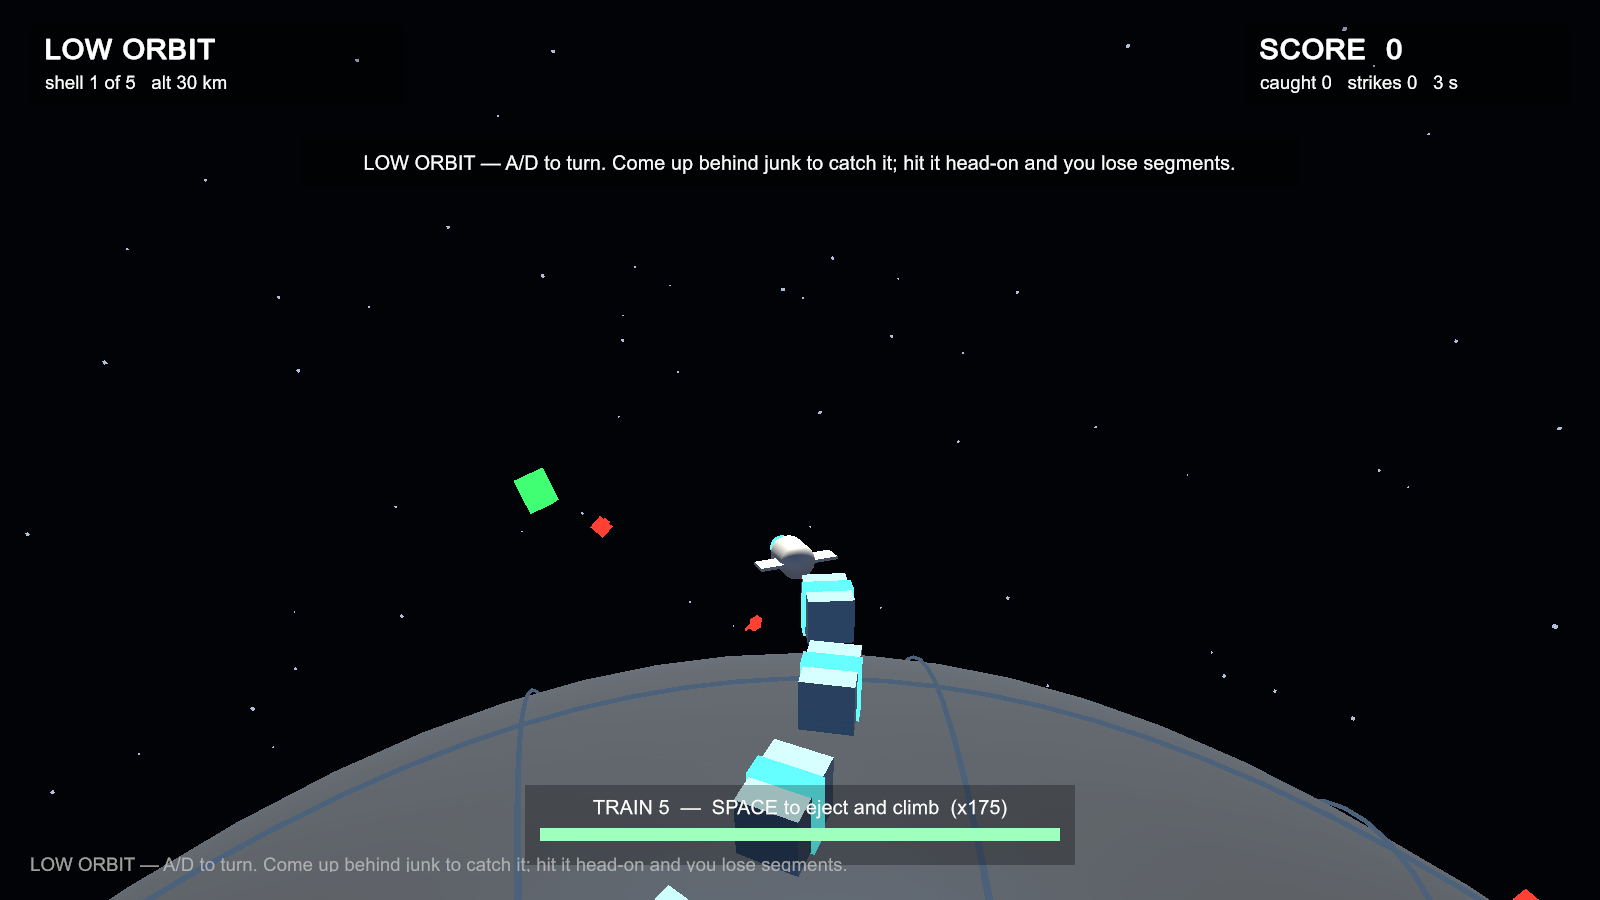
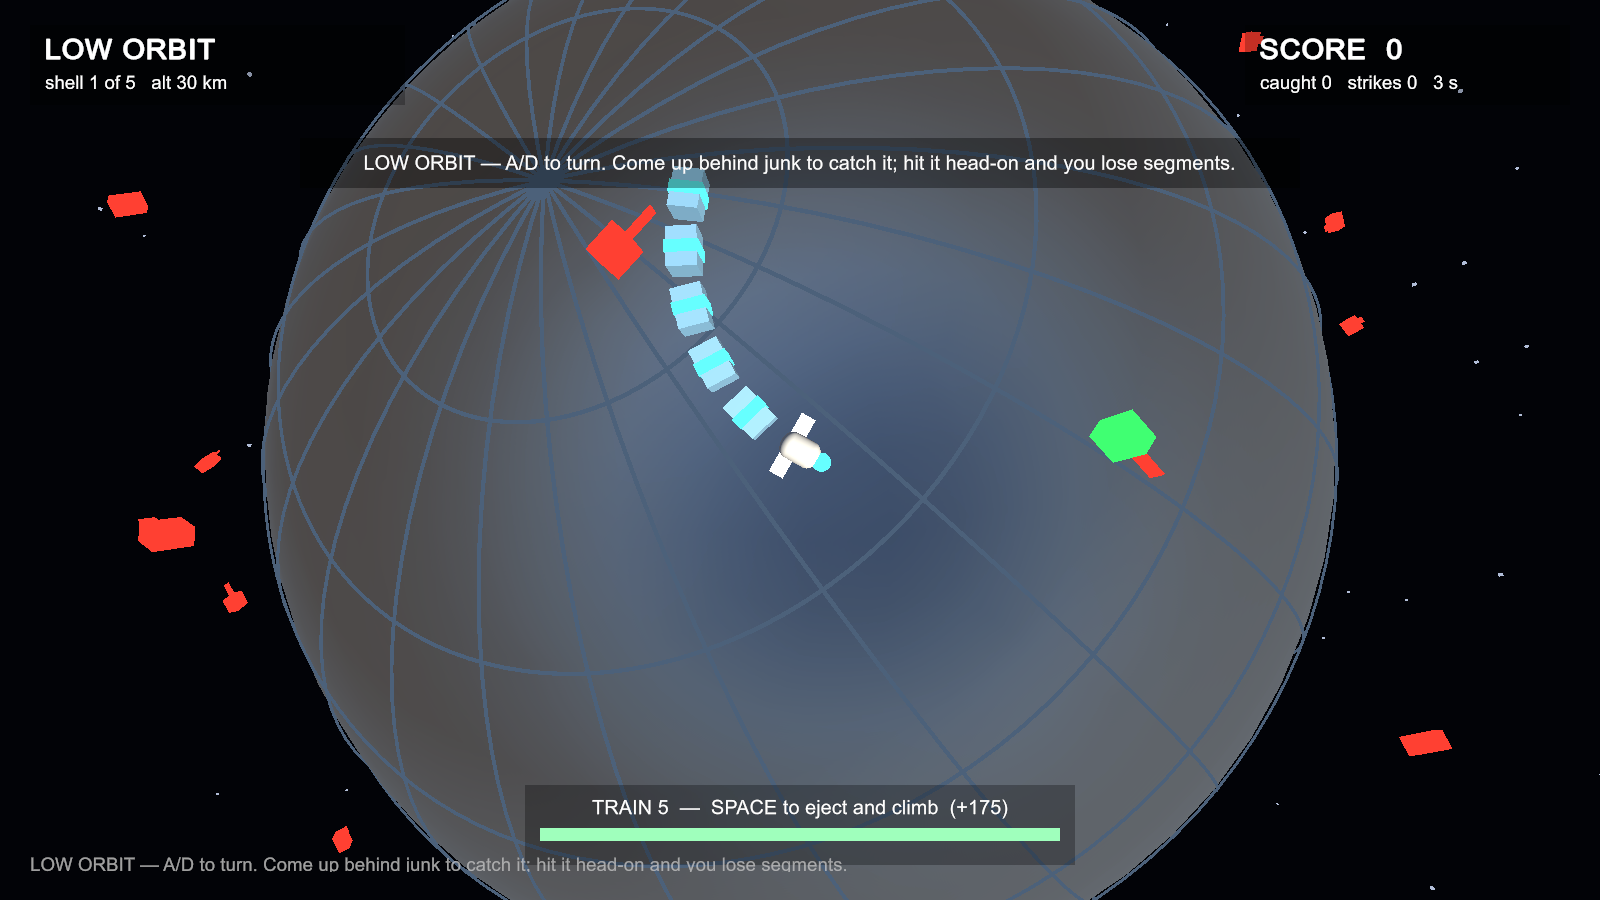
feat: Orbit Snake top-down camera — rigid, parallel-transported screen-up, no shake; denser grid, 1.5x bodies

diff --git a/My project/Assets/Scripts/Orbit/OrbitArt.cs b/My project/Assets/Scripts/Orbit/OrbitArt.cs
@@ -7,7 +7,7 @@ public partial class OrbitSnake
 {
     Material planetMat, hullMat, segMat, junkCatch, junkStrike, wreckMat, fallMat, glowMat;
     AudioSource audioSrc; AudioClip[] pings=new AudioClip[4]; AudioClip[] chimes=new AudioClip[5];
-    Camera shotCam; Vector3 camPos, camLook, camUp;
+    Vector3 camPos, camUp;
 
     Material Mat(Color c,bool unlit){ var m=new Material(Shader.Find(unlit?"Universal Render Pipeline/Unlit":"Universal Render Pipeline/Lit")); m.SetColor("_BaseColor",c); m.color=c; if(!unlit){m.SetFloat("_Metallic",.2f);m.SetFloat("_Smoothness",.35f);} owned.Add(m); return m; }
     GameObject Shape(string name,Transform parent,PrimitiveType type,Vector3 pos,Vector3 scale,Material mat)
@@ -20,10 +20,11 @@ public partial class OrbitSnake
         fallMat=Mat(new Color(1.4f,.6f,.15f),true); glowMat=Mat(new Color(.4f,1.1f,1.4f),true);
         var planet=new GameObject("Planet"); planet.transform.SetParent(world,false);
         planet.AddComponent<MeshFilter>().sharedMesh=Sphere(PlanetRadius,64,32); planet.AddComponent<MeshRenderer>().sharedMaterial=planetMat;
-        // Faint latitude/longitude grid on the planet so motion over it reads even on a flat material.
-        for(int i=0;i<12;i++){ var ring=new GameObject("Grid").AddComponent<LineRenderer>(); ring.transform.SetParent(world,false); ring.useWorldSpace=true; ring.loop=true; ring.positionCount=96; ring.widthMultiplier=.6f; ring.sharedMaterial=Mat(new Color(.3f,.38f,.48f),true);
-            var q=i<6?Quaternion.AngleAxis(i*30,Vector3.up)*Quaternion.AngleAxis(90,Vector3.right):Quaternion.identity; float lat=(i-6)*25-50; float r=i<6?PlanetRadius+.5f:Mathf.Cos(lat*Mathf.Deg2Rad)*(PlanetRadius+.5f); float y=i<6?0:Mathf.Sin(lat*Mathf.Deg2Rad)*(PlanetRadius+.5f);
-            for(int k=0;k<96;k++){ float a=k*Mathf.PI*2/96; ring.SetPosition(k,q*new Vector3(Mathf.Cos(a)*r,y,Mathf.Sin(a)*r)); } }
+        // Latitude/longitude grid every 15 degrees: seen from straight above, it is the only thing that shows speed.
+        var gridMat=Mat(new Color(.3f,.38f,.48f),true);
+        for(int i=0;i<23;i++){ var ring=new GameObject("Grid").AddComponent<LineRenderer>(); ring.transform.SetParent(world,false); ring.useWorldSpace=true; ring.loop=true; ring.positionCount=128; ring.widthMultiplier=.7f; ring.sharedMaterial=gridMat;
+            bool lon=i<12; var q=lon?Quaternion.AngleAxis(i*15,Vector3.up)*Quaternion.AngleAxis(90,Vector3.right):Quaternion.identity; float lat=(i-12)*15-75; float r=lon?PlanetRadius+.5f:Mathf.Cos(lat*Mathf.Deg2Rad)*(PlanetRadius+.5f); float y=lon?0:Mathf.Sin(lat*Mathf.Deg2Rad)*(PlanetRadius+.5f);
+            for(int k=0;k<128;k++){ float a=k*Mathf.PI*2/128; ring.SetPosition(k,q*new Vector3(Mathf.Cos(a)*r,y,Mathf.Sin(a)*r)); } }
         // Star field: 500 unlit specks on a far sphere, fixed seed so the screenshot runs compare.
         var stars=new GameObject("Stars"); stars.transform.SetParent(world,false); var starMat=Mat(new Color(.7f,.75f,.85f),true); var sr=new System.Random(3);
         for(int i=0;i<500;i++){ float z=(float)sr.NextDouble()*2-1,a=(float)sr.NextDouble()*Mathf.PI*2,r=Mathf.Sqrt(1-z*z); Shape("Star",stars.transform,PrimitiveType.Cube,new Vector3(r*Mathf.Cos(a),z,r*Mathf.Sin(a))*1500,Vector3.one*(2+(float)sr.NextDouble()*3),starMat); }
@@ -41,20 +42,21 @@ public partial class OrbitSnake
 
     public void BuildShipArt(OrbitShip s)
     {
-        Shape("Hull",s.transform,PrimitiveType.Capsule,Vector3.zero,new Vector3(2.2f,1.6f,2.2f),hullMat).transform.localRotation=Quaternion.Euler(90,0,0);
-        Shape("Nose",s.transform,PrimitiveType.Sphere,new Vector3(0,0,1.8f),Vector3.one*1.5f,glowMat);
-        Shape("Fin L",s.transform,PrimitiveType.Cube,new Vector3(-1.6f,0,-.6f),new Vector3(1.8f,.2f,1.2f),hullMat);
-        Shape("Fin R",s.transform,PrimitiveType.Cube,new Vector3(1.6f,0,-.6f),new Vector3(1.8f,.2f,1.2f),hullMat);
+        // Everything is 1.5x for the 120 u top-down camera; the nose glow and fins make the heading readable from above.
+        Shape("Hull",s.transform,PrimitiveType.Capsule,Vector3.zero,new Vector3(3.2f,2.4f,3.2f),hullMat).transform.localRotation=Quaternion.Euler(90,0,0);
+        Shape("Nose",s.transform,PrimitiveType.Sphere,new Vector3(0,0,2.8f),Vector3.one*2.2f,glowMat);
+        Shape("Fin L",s.transform,PrimitiveType.Cube,new Vector3(-2.4f,0,-1),new Vector3(2.8f,.3f,1.8f),hullMat);
+        Shape("Fin R",s.transform,PrimitiveType.Cube,new Vector3(2.4f,0,-1),new Vector3(2.8f,.3f,1.8f),hullMat);
     }
     public Transform BuildSegmentArt(OrbitShip s,int index)
     {
-        var g=Shape("Segment "+index,world,PrimitiveType.Cube,Vector3.zero,new Vector3(2.4f,2.4f,3.2f),segMat);
+        var g=Shape("Segment "+index,world,PrimitiveType.Cube,Vector3.zero,new Vector3(3.6f,3.6f,4.8f),segMat);
         Shape("Band",g.transform,PrimitiveType.Cube,Vector3.zero,new Vector3(1.1f,1.1f,.3f),glowMat); return g.transform;
     }
     public void BuildJunkArt(OrbitJunk j)
     {
-        var body=Shape("Body",j.transform,PrimitiveType.Cube,Vector3.zero,j.wreck?new Vector3(2.4f,2.4f,3.2f):new Vector3(3.4f,2f,3f),j.wreck?wreckMat:junkStrike); j.body=body.GetComponent<Renderer>();
-        if(!j.wreck)Shape("Panel",j.transform,PrimitiveType.Cube,new Vector3(0,0,2.4f),new Vector3(1.4f,.2f,4),junkStrike);
+        var body=Shape("Body",j.transform,PrimitiveType.Cube,Vector3.zero,j.wreck?new Vector3(3.6f,3.6f,4.8f):new Vector3(5f,3f,4.5f),j.wreck?wreckMat:junkStrike); j.body=body.GetComponent<Renderer>();
+        if(!j.wreck)Shape("Panel",j.transform,PrimitiveType.Cube,new Vector3(0,0,3.6f),new Vector3(2,.3f,6),junkStrike);
     }
     public void BuildFallingArt(OrbitFalling f){ Shape("Ember",f.transform,PrimitiveType.Sphere,Vector3.zero,Vector3.one*2.4f,fallMat); }
 
@@ -70,18 +72,18 @@ public partial class OrbitSnake
         cam.clearFlags=CameraClearFlags.SolidColor; cam.backgroundColor=new Color(.01f,.012f,.03f); cam.fieldOfView=62; cam.nearClipPlane=1; cam.farClipPlane=2000;
         cam.gameObject.AddComponent<AudioListener>();
     }
-    // Chase camera high enough that the horizon and the junk lanes ahead are in frame; up is the shell normal so the
-    // planet always sits at the bottom of the screen. Snapped on restart, smoothed in play.
-    Vector3 CamTarget(out Vector3 look,out Vector3 up){ up=ship.normal; look=ship.Position+ship.tangent*34; return ship.Position+ship.normal*20-ship.tangent*34; }
-    public void SnapCamera(){ camPos=CamTarget(out camLook,out camUp); ApplyCamera(); }
-    void UpdateCamera(float dt)
+    // Top-down, rigid: the camera sits CamHeight above the head looking straight down the normal, no lag, no shake, so
+    // the ship is pinned to the screen centre and only the world moves. Screen-up is a tangent vector parallel-transported
+    // along the path (re-projected onto each new tangent plane, never rotated about the normal): turning spins the ship
+    // on screen, not the world. The chase camera and its flicking made the user seasick; strikes flash the HUD instead.
+    const float CamHeight=85f;
+    public void SnapCamera(){ camUp=ship.tangent; ApplyCamera(); }
+    void UpdateCamera(float dt){ ApplyCamera(); TintJunk(); }
+    void ApplyCamera()
     {
-        Vector3 p=CamTarget(out var look,out var up); float k=1-Mathf.Exp(-dt*6);
-        camPos=Vector3.Lerp(camPos,p,k); camLook=Vector3.Lerp(camLook,look,k); camUp=Vector3.Slerp(camUp,up,k);
-        if(ship.shake>0){ camPos+=Random.insideUnitSphere*ship.shake*1.2f; }
-        ApplyCamera(); TintJunk();
+        camUp=(camUp-ship.normal*Vector3.Dot(camUp,ship.normal)).normalized; if(camUp.sqrMagnitude<.5f)camUp=ship.tangent;
+        camPos=ship.Position+ship.normal*CamHeight; cam.transform.position=camPos; cam.transform.rotation=Quaternion.LookRotation(-ship.normal,camUp);
     }
-    void ApplyCamera(){ cam.transform.position=camPos; cam.transform.rotation=Quaternion.LookRotation(camLook-camPos,camUp); }
 
     AudioClip Sound(string name,float length,float start,float end,float noise)
     {

diff --git a/CHANGELOG.md b/CHANGELOG.md
@@ -9,6 +9,7 @@
 ### Added
 
 - **ORBIT SNAKE greybox**（分支 `feat/orbital-snake`，设计见 `docs/ORBIT-SNAKE-DESIGN.md`）：与 RIFT 并存的第二个游戏，独立场景 `Assets/Scenes/OrbitSnake.unity`（由 `OrbitSceneBuilder.Ensure()` 生成）、独立代码 `Assets/Scripts/Orbit/`（`OrbitSnake` 管理器 + `OrbitBodies` 实体 + `OrbitArt` + `OrbitHUD`，约 330 行）。没有轨道力学：蛇的全部状态是一个单位法线（在哪）和一个单位切向（朝哪），前进是绕 `normal×tangent` 旋转两者的精确大圆步进，A/D 以 150°/s 绕法线转切向，速度恒定 60 u/s，半径钉死在当前层（`ShellAltitude={40,72,108,150,200}`，星球半径 300）。垃圾在各自层的大圆上以固定角速率跑，一半逆向；接触时蛇的航向与垃圾运动方向夹角 <45° 是**吃**（挂到尾巴上），否则是**撞**（掉最后两节，1.5 s 无敌），没节可掉时撞就是死。头碰到第 4 节以后的自己从那节**切断**，断掉的节带着当时的行进方向变成本层的残骸垃圾（金色），下一圈回来。Space 在节数达到本层配额（4/6/8/10）时把整条尾巴抛向星球烧掉（`OrbitFalling` 余烬），得分 `n²·5+50·(level+1)`，飞船升一层并给新层播种垃圾；第五层即通关。RIFT 的 `Boot()` 加了场景名闸门，不再往别的场景里生成竞技场。
+- **ORBIT SNAKE 俯视相机**（用户反馈追尾视角"太晕"，尤其是 flicking）：相机刚性锁在蛇头正上方 85 单位、沿法线向下看，无位置插值、无撞击震屏，飞船钉在屏幕中心；屏幕上方向是沿路径**平行传输**的切向量（每帧只重新投影到新切平面，从不绕法线转），所以转向时是飞船在屏幕上转、世界不转。经纬网格加密到每 15°，实体放大 1.5× 适配俯视距离。
 - **ORBIT SNAKE 自动化管线**：`OrbitVerification.Run()` 十一项确定性校验（法线保持单位、半径钉在层上、切向正交；直线一圈回到原点、满舵闭合小圆；垃圾守平面守速率守层；同向追上=吃、逆向=撞掉两节、零节撞=结束；转弯中节距 ±10% 且全在层上；30 节满舵自咬且断节数等于新增残骸数；配额以下 Space 无效、达标后升层/计分/播种/落定；`paused` 阻断 `Advance`；同种子同输入两局分数一致），`OrbitHeadlessRunner.Run`（exit 0/1/2）、`OrbitScreenshotRunner.Run`（3 帧到 `docs/screenshots/orbit/`，均值/方差自检）、`RiftBuild.OrbitMacOS`（`Builds/ORBIT.app`）。垃圾在 120 u 内按当前航向实时染色：绿=贴上去就是吃，红=撞——规则不靠文字教。
 - **自动水平配平**（`IMPROVEMENT-PLAN.md` WP-D 手感层）：`ArenaPilot.Simulate` 里新增仅对玩家生效的滚转助力。bank 定义为"机体 up 相对当地径向 `Up(pos)`、绕机头轴的有符号夹角"，助力按 `clamp(bank*1.2, ±15°/s)` 求出期望滚转角速度，再除以 `85*max(.35,authority)` 换算回操纵量并夹在 ±.35（约为满杆的三分之一），叠加进滚转通道。三重闸门：`AutoLevelEnabled`（`public static`，校验脚本关掉它来自证助力有效）、`|controls.z|<.05` 且 `|controls.x|<.5`（有意的滚转或大幅拉杆立刻接管）、`|bank|<100°`（过了刀锋姿态就完全撒手，让倒飞的人把这个滚转做完）。AI 路径一行未改。实测：300 m 高度、82 m/s、40° 坡度松杆 3 s 后剩 2.7°，关掉助力则原样停在 40.0°。
 - **协调转弯**：新增纯函数 `AerialCombatPrototype.PilotControls(Vector2 stick,Vector3 keys)`，把"鼠标+键盘 → controls"的全部映射从 `Update()` 里抽出来（校验脚本因此不需要 `Keyboard.current` 就能测）。鼠标 x 仍以 .42 灵敏度进滚转，同时按 `YawCoupling=.25` 把**原始**鼠标 x（不是 .42 之后的值）的四分之一送进偏航通道，鼠标转向自带蹬舵；Q/E 方向舵与 A/D 滚转保持全强度且互不串扰。
